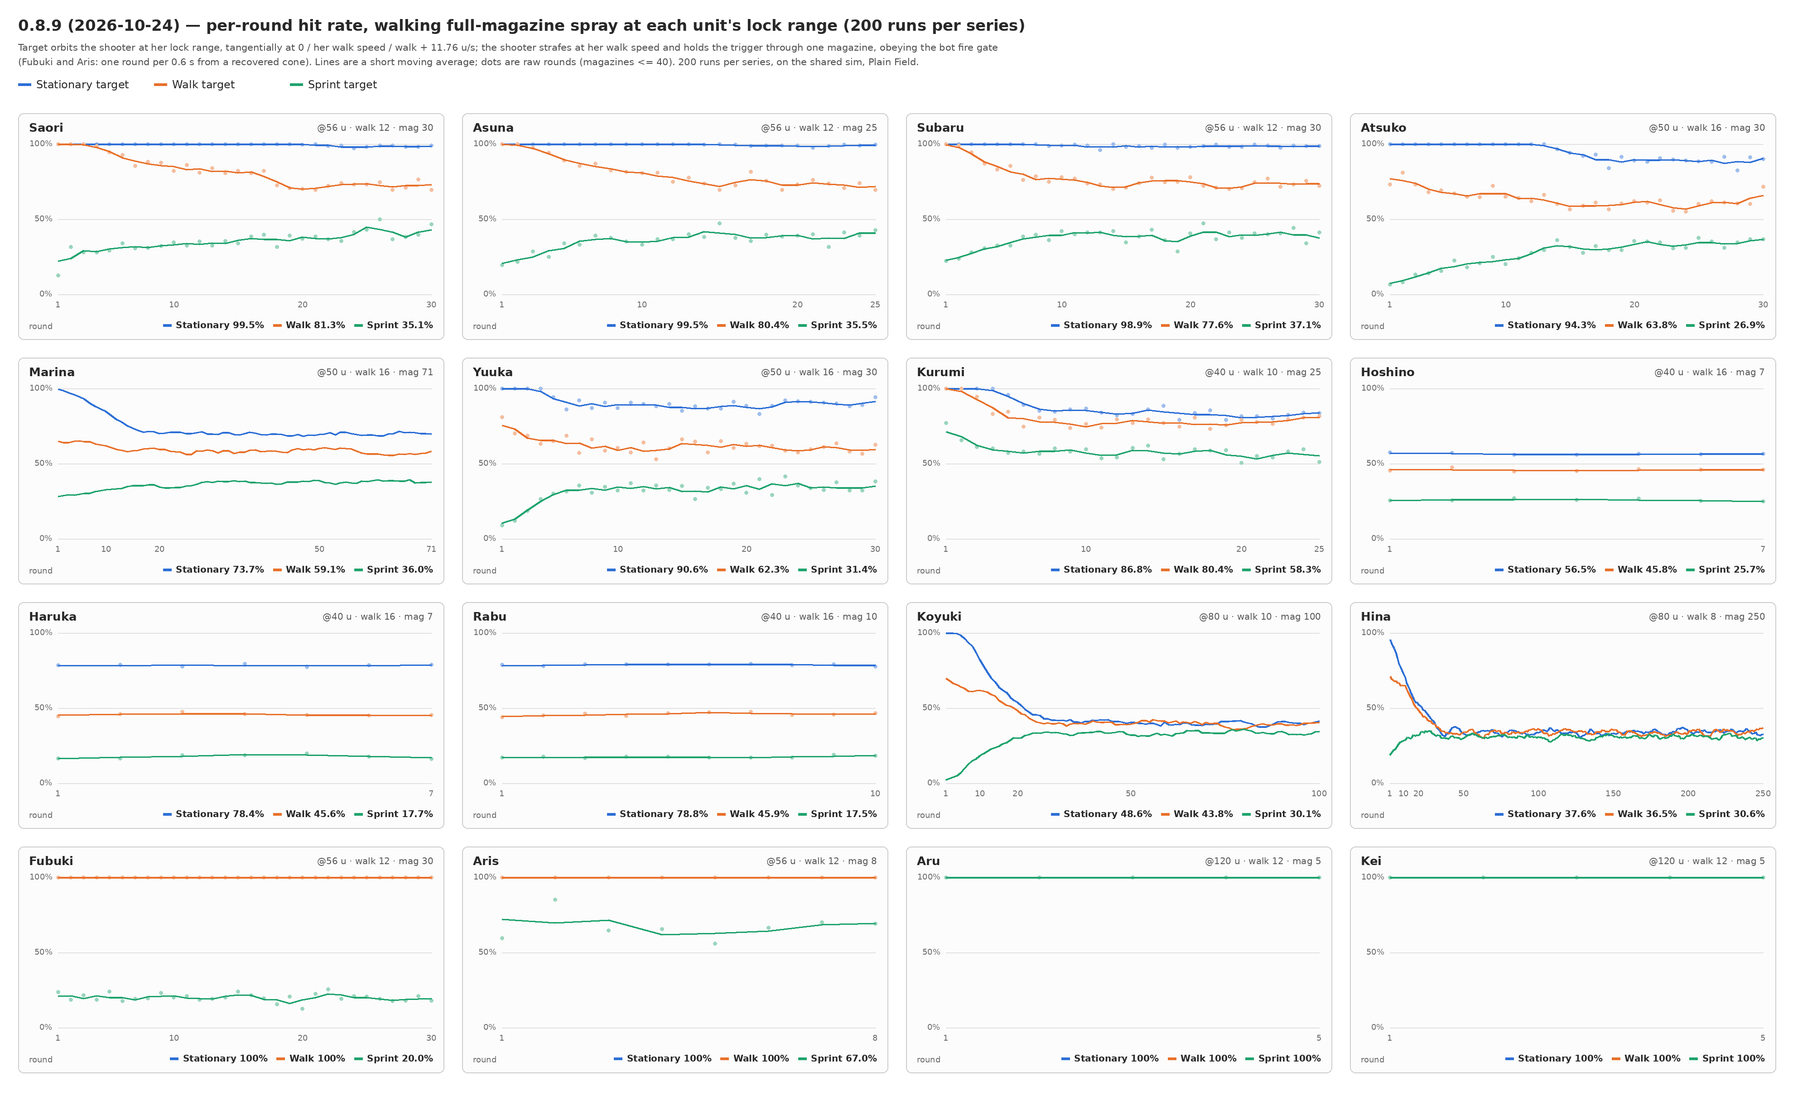
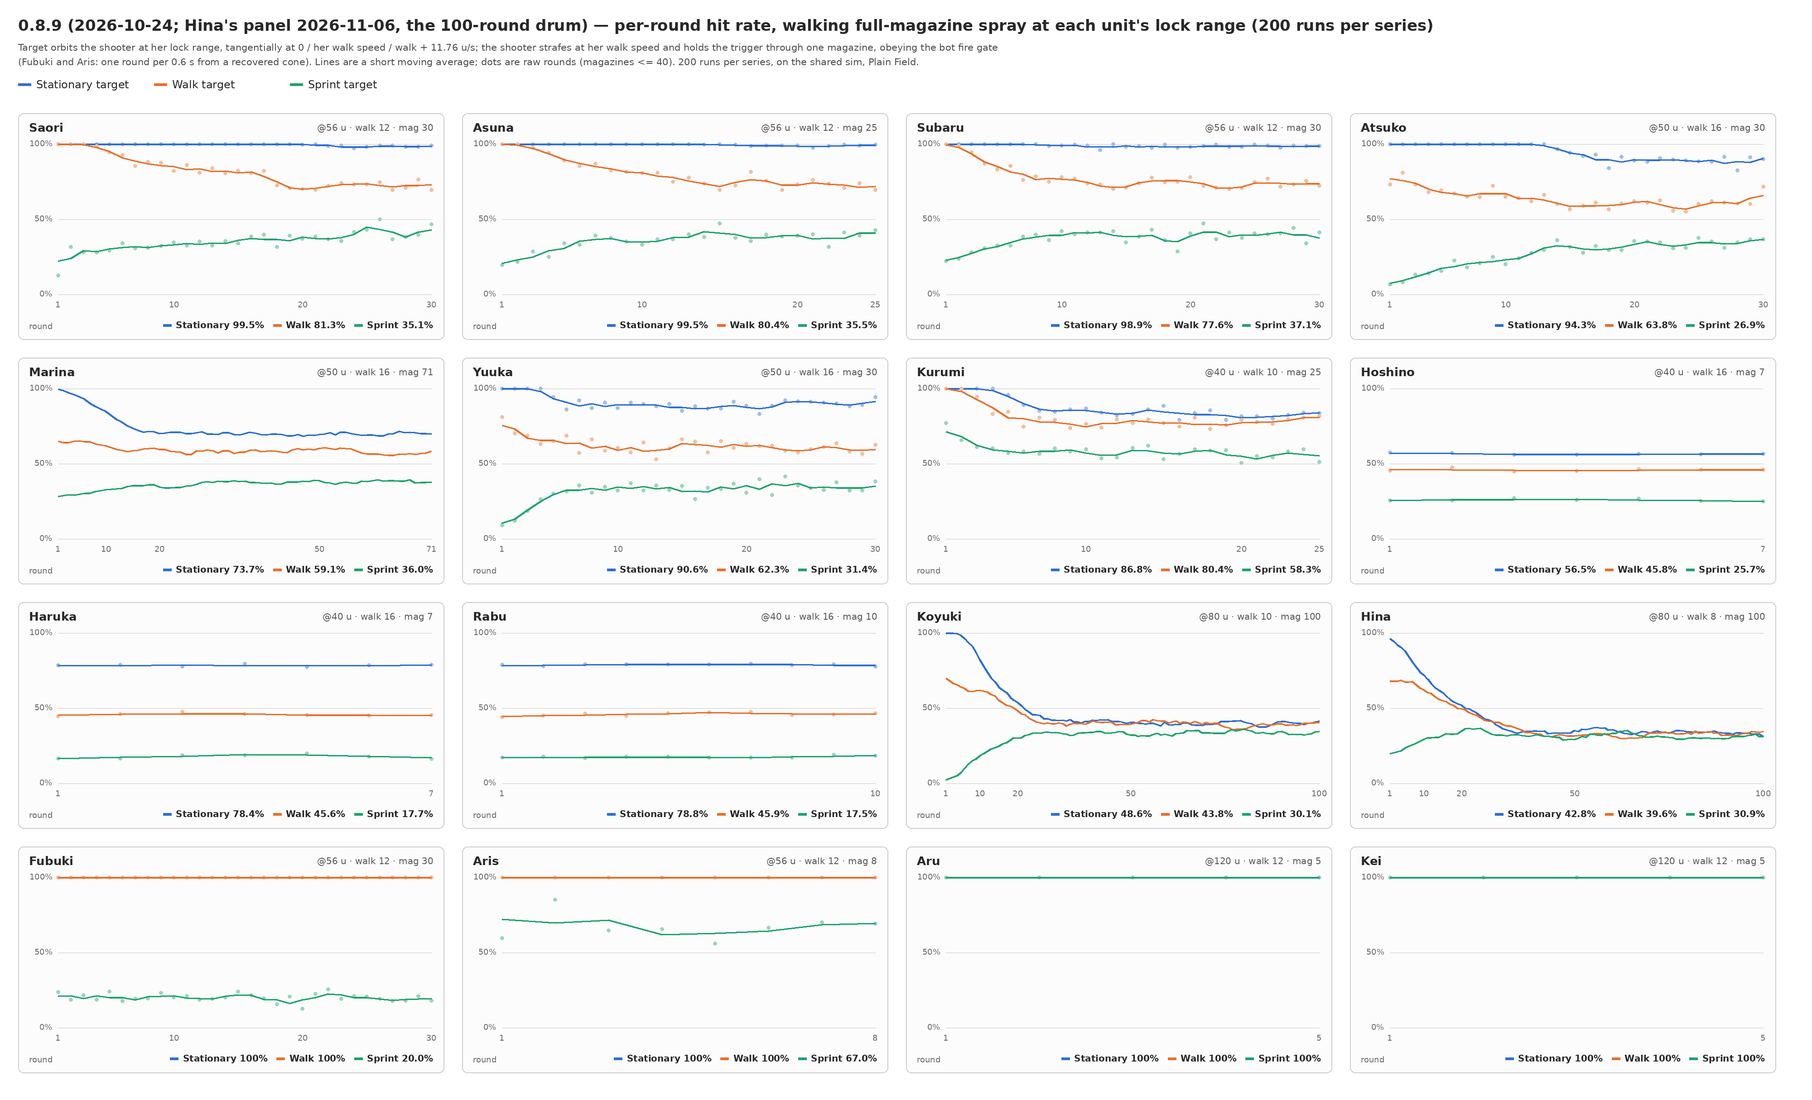
Hina: the MG42's magazine 100 (was 250), reload 5 s (was 7 s) (b1105bo)
User 2026-11-06: "change Hina magazine size from 250 to 100, reload time
from 7sec to 5sec. PT and 9.5."

- shared/src/sim/constants.js and the client's own copy in
  client/src/main.js: unit5 magCapacity 250 -> 100, reloadMs 7000 -> 5000.
  botFireCap follows the magazine to 100: 250 meant the whole drum per
  trigger pull, and an empty magazine already ends a bot's burst, so the
  bot still empties the drum in one pull.
- shared/src/sim/nbrain.js: the reload-hide comment's numbers.
- README: the unit table, the fire-cap table, the reload-hide line,
  Hina's measured hit-rate row, the reading under that table, and her
  panel in the hit-rate chart (re-measured with shared/tools/hitcurve.mjs;
  the other fifteen panels are the 2026-10-24 data as before), and the
  b1105bo entry.
- Build tag b1105bo 11-06.

Tests: node --test in shared, 185/185.

Claude-Session: https://claude.ai/code/session_01WRmaW8Rcy6Uy3N3ztRYSCo

Changed region(s): [[0.0938, 0.0, 0.7812, 0.0309], [0.7812, 0.6173, 0.9688, 0.679]]

diff --git a/client/src/main.js b/client/src/main.js
@@ -282,9 +282,9 @@ const UNIT_DATA = {
     bloomRecoverPerSec: 0.03,  // SA recovered per second
     bloomRecoverDelayMs: 200,  // recovery starts this long after the last shot (0 = between the shots of a burst too)
     damage: 4,
-    magCapacity: 250,
-    botFireCap: 250,         // bot: shots per trigger pull = full mag (fire cap, 2026-08-01)
-    reloadMs: 7000,
+    magCapacity: 100,          // user 2026-11-06: 100 rounds (250 until then)
+    botFireCap: 100,         // bot: shots per trigger pull = full mag (fire cap, 2026-08-01; 100 with the magazine, 2026-11-06)
+    reloadMs: 5000,            // user 2026-11-06: 5 s (7 s until then)
     autoReload: false,
     stun: { ms: 50, moveScale: 0.85 }   // light stun, same as the SMG
   },
@@ -7106,7 +7106,7 @@ const OWN_SHOT_SAME_SHOT_MS = 1000;       // older server without the shot count
 // Build tag, printed in the own-shot console tally so a stale deploy or
 // cache can be told from a live one (it was shown in the tab title for a
 // day; the owner had it taken off the tab, 2026-10-15).
-const CLIENT_BUILD_TAG = 'b1105bn 11-06';
+const CLIENT_BUILD_TAG = 'b1105bo 11-06';
 
 // Called after every prediction tick — the forward tick in runPredictionTick
 // and each replayed tick in applySnapshotToPrediction: every own single

diff --git a/shared/src/sim/constants.js b/shared/src/sim/constants.js
@@ -199,9 +199,9 @@ export const UNIT_DATA = {
     bloomRecoverPerSec: 0.03,  // SA recovered per second
     bloomRecoverDelayMs: 200,  // recovery starts this long after the last shot (0 = between the shots of a burst too)
     damage: 4,
-    magCapacity: 250,
-    botFireCap: 250,         // bot: shots per trigger pull = full mag (fire cap, 2026-08-01)
-    reloadMs: 7000,
+    magCapacity: 100,          // user 2026-11-06: 100 rounds (250 until then)
+    botFireCap: 100,         // bot: shots per trigger pull = full mag (fire cap, 2026-08-01; 100 with the magazine, 2026-11-06)
+    reloadMs: 5000,            // user 2026-11-06: 5 s (7 s until then)
     autoReload: false,
     stun: { ms: 50, moveScale: 0.85 }   // light stun, same as the SMG
   },

diff --git a/shared/src/sim/nbrain.js b/shared/src/sim/nbrain.js
@@ -125,7 +125,7 @@ const BOT_STUCK_MEMORY_WEIGHT = 0.7;  // below the ~0.85 pursuit pull, so it nud
 // search in navgrid.js shares the bot's eye rule.)
 // RELOAD HIDE (the 2026-08-08 cover reload, re-based on the Hide stance by
 // the owner 2026-09-26): units with a MANUAL reload at least MIN_MS long
-// (Hina's 7 s drum, Koyuki's 5 s) spend the famine in the Hide stance —
+// (Hina's and Koyuki's 5 s; Hina's was 7 s until 2026-11-06) spend the famine in the Hide stance —
 // entered the tick the reload starts, left the tick it completes — with
 // every Hide rule (hidden from every enemy, pace, slip, no Defense, fire
 // back only from where it stands). Auto and per-shell reloaders are

diff --git a/README.md b/README.md
@@ -149,6 +149,8 @@ Both offline and online pickers carry them:
 
 **The unit picker's folder: PROFILE, the weapon print over the tab** (b1105bn, 2026-11-06; user: "change the "UNIT FILE" text in unit selection menu to "PROFILE"" and "the weapon box is slightly covered a little on the left side by the file. Move the weapon box on top of the file so it won't be covered. the paper clip part should be untouched visually") — the folder's tab and the profile popup's tab read PROFILE. The weapon print's left edge sat under the tab: the tab is the folder's `::before` at z-index 2, and the card that holds the print turns (rotate 0.8°), so it is a layer of its own at the folder's base level and the print's own z-index could not lift it past the tab; the card now stands at z-index 3 (`.menu .picker-folder .picker-card`), the print and the clip it holds with it. Headless at 1280×720 and 600×310: the pixels that changed are the tab's word and the strip where tab and print meet; the clip's are identical.
 
+**Hina's MG42: a 100-round drum, a 5 s reload** (b1105bo, 2026-11-06; user: "change Hina magazine size from 250 to 100, reload time from 7sec to 5sec. PT and 9.5.") — unit5's `magCapacity` 250 → 100 and `reloadMs` 7000 → 5000, in both copies of her numbers: the shared sim's (`shared/src/sim/constants.js`) and the client's own (`client/src/main.js` UNIT_DATA, which the picker card reads). Her `botFireCap` goes to 100 with the magazine: 250 meant "the whole drum per trigger pull", and an empty magazine already ends a bot's burst (the empty-mag branch of the bot's firing clears the count), so one pull still empties the drum — now ~4.8 s of fire at her 48 ms cadence where it was ~12 s. She still spends the reload in the Hide stance (5 s is over `BOT_RELOAD_HIDE_MIN_MS`, 3 s), and the reload animation, fitted to `reloadMs`, now plays over 5 s. Fire rate, damage, spread, bloom, HP and movement are as they were. The unit table, the fire-cap table and the reload-hide line carry the new numbers; Hina's hit-rate row is re-measured with `shared/tools/hitcurve.mjs` at 100 rounds (200 runs a series, as before; the other fifteen rows stay the 2026-10-24 measurement) and her panel in the chart is redrawn from it. The bot-vs-bot duels of the same day (Hina against each of the other sixteen on the seven maps, 10 a pairing a map: 1,120 duels a setting, the same seeds) put her 1v1 win rate at 89.4% with the 250-round drum and the 7 s reload, 70.4% with 100 rounds on the 7 s reload, and 77.4% with 100 rounds on the 5 s reload (95% interval 74.9–79.8%).
+
 ## Sudden Death
 
 Picked as the **rules mode** beside the view mode (**Health Point** is the normal game; the two were named Normal / Classic until 2026-10-10). Everyone fights at **1 HP** — one landed round decides — and Trio respawns arrive at 1 HP too. The two snipers (Aru, Kei) are out of the pickers and the Random cards. The match opens on a full-width **SUDDEN DEATH** banner with the simulation frozen behind it; the 3 s spawn immunity and every bot slot's 650 ms first-shot delay count from the banner's end (the server holds the same way online).
@@ -245,7 +247,7 @@ Sixteen pickable units, near-identical base stats (100 HP — Kurumi 120; 250 bo
 | Unit 11 — Shotgun (Haruka) | 16 | 7 | 4 × 8 pellets | ~250 RPM | 350 | 40 / 50 | 1.2 s (auto, per round) |
 | Unit 18 — Shotgun (Rabu) | 16 | 10 | 4 × 8 pellets | ~250 RPM | 350 | 40 / 50 | 2 s (magazine) |
 | Unit 12 — Machine Gun (Koyuki) | 10 | 100 | 4.5 / shot | ~600 RPM | 600 | 80 / 65 | 5 s |
-| Unit 5 — Machine Gun (Hina) | 8 | 250 | 4 / shot | ~1250 RPM | 600 | 80 / 65 | 7 s |
+| Unit 5 — Machine Gun (Hina) | 8 | 100 | 4 / shot | ~1250 RPM | 600 | 80 / 65 | 5 s |
 | Unit 10 — Rifle (Fubuki) | 12 | 30 | 13 / shot | ~180 RPM | 600 | 56 / 65 | 2 s |
 | Unit 7 — Rifle (Aris) | 12 (flies) | 8 | 12 / bolt | ~180 RPM | 600 | 56 / 65 | 1.2 s (auto, per round) |
 | Unit 3 — Sniper Rifle (Aru) | 12 | 5 | 50 / 35 / 20 by range | 60 RPM | 4000 | 120 / 70 | 2.5 s + 1 s charge |
@@ -328,7 +330,7 @@ Unit 18 (user 2026-10-23): Rabu's M590 is Haruka's SDASS — the concentrated pa
 | Haruka @40 · 7 rds | 78% (79→79) | 46% (45→45) | 18% (16→17) |
 | Rabu @40 · 10 rds | 79% (79→78) | 46% (45→46) | 18% (17→18) |
 | Koyuki @80 · 100 rds | 49% (66→40) | 44% (52→39) | 30% (24→34) |
-| Hina @80 · 250 rds | 38% (45→34) | 36% (42→34) | 31% (30→31) |
+| Hina @80 · 100 rds | 43% (61→34) | 40% (54→33) | 31% (30→31) |
 | Fubuki @56 · 30 rds | 100% (100→100) | 100% (100→100) | 20% (20→20) |
 | Aris @56 · 8 rds | 100% (100→100) | 100% (100→100) | 67% (72→70) |
 | Aru @120 · 5 rds | 100% (100→100) | 100% (100→100) | 100% (100→100) |
@@ -336,7 +338,7 @@ Unit 18 (user 2026-10-23): Rabu's M590 is Haruka's SDASS — the concentrated pa
 
 *Shotgun rows:* Hoshino fires the 1.4× wide fan, Haruka the concentrated cloud (the two swapped patterns on 2026-10-10), and Rabu carries Haruka's pattern on her 10-shell magazine — her row is Haruka's, three shells longer. The picture is current (2026-10-24).
 
-*Reading it:* the first→last gap is the bloom. The 900 RPM rifles open a magazine at 100% on a walking target and close it in the low 70s; Atsuko slips 100→90 even on a standing target: her capped cone's sure-hit line is 40 u, inside her 50 u lock, and a 30-round spray gets there by round 20; Koyuki's 100-round belt and Hina's 250 reach their capped cone inside the first third and sit there (~40% and ~34%), which is why their bots fire ungated. A flat pair means the gun never leaves its resting cone: the shotguns (7 blasts, a fixed pattern), and Hina and Koyuki from round ~40 on. The marksman rifles are flat for the opposite reason: on their 100% gate they never fire bloomed, so every round is a 0.02-cone shot — 100% on anything walking, and against a sprinter only the flight-time drift is left: Fubuki 19%, Aris 62%, her laser bolt hitting with a 0.4 wider radius and its whole 64-long trailing body, which forgives more of the drift than Fubuki's point bullet. (Held down through the magazine instead, ignoring the gate, they spray at their caps — Fubuki 35 / 33 / 28%, Aris 71 / 74 / 56% — which is what the gate is for.) The walk column is no longer one target speed for everyone — the 16 u/s SMG targets are harder than the 12 u/s rifle targets — so compare it as "each unit against her own peer". Sprint is no longer untouchable: crossing the line of fire at 24–28 u/s still gets clipped a quarter to a third of the time, and the assault rifles' sprint curve *rises* through the magazine (28→39) as the widening cone starts to cover the flight-time lead. The snipers are the flat lines at the top: Aru's 4,000 u/s bolt crosses 120 u in 30 ms, so even a sprinter drifts under a unit before impact, and Kei's beam is instant. *The four units of 2026-10-22/23* (remeasured 2026-10-24): Subaru's curves lie on Saori's within three points (99 / 78 / 37 against 99 / 81 / 35) — her cone reaches the cap by the 9th round where the M4's takes 21, but a 0.06 cap's sure-hit line is 53 u, so at her 56 u lock the capped rounds still land 9 in 10, and her faster recovery never shows in a held-trigger spray; Yuuka reaches her 0.08 cap at the 6th round and holds 91 / 62 / 31 to Atsuko's 94 / 64 / 27 (the same chassis at 850 RPM: a little less to lose per round, a little more to lose over the magazine); Kurumi's 0.11 cap is the harshest of the SMGs but her 40 u lock is the shortest, and at that range the walking and sprinting targets drift the least before the round arrives — 87 / 80 / 58, the best moving-target numbers of any automatic, which is her range doing the work, not her cone; Rabu is Haruka's pattern three shells longer, flat as every shotgun.
+*Reading it:* the first→last gap is the bloom. The 900 RPM rifles open a magazine at 100% on a walking target and close it in the low 70s; Atsuko slips 100→90 even on a standing target: her capped cone's sure-hit line is 40 u, inside her 50 u lock, and a 30-round spray gets there by round 20; Koyuki's 100-round belt and Hina's 100-round drum reach their capped cone by the end of the first third (round 25 and round 34) and sit there (~40% and ~34%), which is why their bots fire ungated. A flat pair means the gun never leaves its resting cone: the shotguns (7 blasts, a fixed pattern), and Hina and Koyuki from round ~40 on. The marksman rifles are flat for the opposite reason: on their 100% gate they never fire bloomed, so every round is a 0.02-cone shot — 100% on anything walking, and against a sprinter only the flight-time drift is left: Fubuki 19%, Aris 62%, her laser bolt hitting with a 0.4 wider radius and its whole 64-long trailing body, which forgives more of the drift than Fubuki's point bullet. (Held down through the magazine instead, ignoring the gate, they spray at their caps — Fubuki 35 / 33 / 28%, Aris 71 / 74 / 56% — which is what the gate is for.) The walk column is no longer one target speed for everyone — the 16 u/s SMG targets are harder than the 12 u/s rifle targets — so compare it as "each unit against her own peer". Sprint is no longer untouchable: crossing the line of fire at 24–28 u/s still gets clipped a quarter to a third of the time, and the assault rifles' sprint curve *rises* through the magazine (28→39) as the widening cone starts to cover the flight-time lead. The snipers are the flat lines at the top: Aru's 4,000 u/s bolt crosses 120 u in 30 ms, so even a sprinter drifts under a unit before impact, and Kei's beam is instant. *The four units of 2026-10-22/23* (remeasured 2026-10-24): Subaru's curves lie on Saori's within three points (99 / 78 / 37 against 99 / 81 / 35) — her cone reaches the cap by the 9th round where the M4's takes 21, but a 0.06 cap's sure-hit line is 53 u, so at her 56 u lock the capped rounds still land 9 in 10, and her faster recovery never shows in a held-trigger spray; Yuuka reaches her 0.08 cap at the 6th round and holds 91 / 62 / 31 to Atsuko's 94 / 64 / 27 (the same chassis at 850 RPM: a little less to lose per round, a little more to lose over the magazine); Kurumi's 0.11 cap is the harshest of the SMGs but her 40 u lock is the shortest, and at that range the walking and sprinting targets drift the least before the round arrives — 87 / 80 / 58, the best moving-target numbers of any automatic, which is her range doing the work, not her cone; Rabu is Haruka's pattern three shells longer, flat as every shotgun.
 
 Projectiles fly straight (homing is zeroed universally). The targeting reticle is an **enemy-firing indicator**, not a range indicator: green by default, it flashes red while your current target is firing and stays red for the whole time a sniper is mid-charge with you as the target (see the sniper section). Being inside lock range is not signalled to players at all — the number only shapes bot behavior (bots hold their engage band around it). A faint in-lock tracer tint that once keyed to it was removed 2026-08-01.
 
@@ -403,7 +405,7 @@ Three properties the table encodes: glint duration equals the release time on **
 | Marina | 71 | full drum |
 | Fubuki | 30 | full mag |
 | Koyuki | 100 | full mag |
-| Hina | 250 | full drum (~12 s of continuous fire) |
+| Hina | 100 | full drum (~4.8 s of continuous fire) |
 | Hoshino / Haruka | 4 | 4 blasts per trigger pull |
 | Aris | 4 | legacy formula (half mag) |
 | Aru / Kei | — | charge cycle, no bursts |
@@ -449,7 +451,7 @@ One bot brain drives every bot — all maps, all modes, offline and online (one 
 | Fubuki, Aris | 100% | 100% |
 | Hoshino, Haruka, Aru, Kei | never gated | never gated |
 
-**Reload hide** (the 2026-08-08 cover reload, re-based on the Hide stance 2026-09-26) — weapons with a manual reload of 3 s or more (Hina's 7 s drum, Koyuki's 5 s) spend it in the **Hide** stance: the unit enters Hide the tick the reload starts and leaves it the tick the reload completes, with every Hide rule — out of every enemy's sight, pacing its cover, slipping away from a closing enemy, no Defense on a hit, firing back only from where it stands. Every bot does it (enemies too); on your own units in command mode the shield badge shows, entering **wipes a standing force lock**, and a new order during the reload releases the hide for the rest of that reload, exactly as it would any Hide (a Hide you set yourself is not released by the reload ending). **A unit under a move order keeps it**: its reload runs as a *Cover Hide* bound to the order instead (2026-09-26 — cover inside the order's area first, for the whole reload, no badge), and the unit resumes its post when the reload completes; a new move order landing mid-reload takes over at once. Per-shell and auto reloaders (Hoshino, Haruka, Aris) are excluded by design — they're always mid-reload, so they'd never come out. The counterplay is to push: hiding beats a stationary opponent, not a committed one.
+**Reload hide** (the 2026-08-08 cover reload, re-based on the Hide stance 2026-09-26) — weapons with a manual reload of 3 s or more (Hina's and Koyuki's 5 s) spend it in the **Hide** stance: the unit enters Hide the tick the reload starts and leaves it the tick the reload completes, with every Hide rule — out of every enemy's sight, pacing its cover, slipping away from a closing enemy, no Defense on a hit, firing back only from where it stands. Every bot does it (enemies too); on your own units in command mode the shield badge shows, entering **wipes a standing force lock**, and a new order during the reload releases the hide for the rest of that reload, exactly as it would any Hide (a Hide you set yourself is not released by the reload ending). **A unit under a move order keeps it**: its reload runs as a *Cover Hide* bound to the order instead (2026-09-26 — cover inside the order's area first, for the whole reload, no badge), and the unit resumes its post when the reload completes; a new move order landing mid-reload takes over at once. Per-shell and auto reloaders (Hoshino, Haruka, Aris) are excluded by design — they're always mid-reload, so they'd never come out. The counterplay is to push: hiding beats a stationary opponent, not a committed one.
 
 **Station's hops, and Factory's belts** (b1024z10–z11, user 2026-10-24) — Station: a bot that had left a platform — walked off its edge while orbiting, or jumped down to close on the enemy — hopped straight back onto it, the platform being the strong ground the low-ground rule reached for, and landed at whatever range that gave. Gone on the user's call (`nbrain.js`): the **low-ground hop** — "on low ground, take any reachable platform, no 'toward player' gate; on Station the decks are the strong positions" — in Pursue, Engage and Defense alike; and with it two things tried the same day and dropped the same day: a fourth question for a hop ("did I not just come down from there?", a 4 s refusal of a hop back to the floor just left) and a gate on the pursuit's deliberate drop (only when the enemy stands lower) — the question read heights, not places, so it also kept a body backing off from hopping onto the other platform, and a hop that keeps the range must stay. What remains climbs for a reason: the pursuit's climb toward an enemy a jump higher, the Maze's hop onto a ledge in its way, a route's vault at its link, Defense's sprint vault and its vault out of a wedge. Measured over six bot-minutes of 1v1: a body left a platform once or twice a minute (six or seven before) and never came straight back up the same side (five or six times before); it spends 9–29 % of a match on a platform, where it was 30–80 % — the platforms are climbed by routes and the pursuit only. And the wedge detectors read the sim's own note of a wall (b1024z12, user 2026-10-24: "the bot got stuck on the railway under fire"): Defense and Engage judged "I am pressed against a wall" from the steering's boxes alone, and the steering leaves jumpable fences out on purpose — Station's 1 m platform fronts among them — so a body pressed against a front stood still, its vault out of a wedge asleep, once the low-ground hop that used to lift it was gone (measured: 1.6–3.3 s a minute still under fire on the tracks, 71–90 % of a match down there). Now moving into the face physics pushed the body out of last tick (`host.wall`, `pushedInto` in `nbrain.js`) counts as wedged too, whatever the thing; Pursue's wedge was always read from movement and needed nothing. Measured after: 0.0–0.3 s a minute still under fire, 7–25 % of a match on the tracks, the platforms climbed again through the vault out of the wedge — so the quick return up the side a body fled from is back, two to five a minute, now as the escape's way out rather than an idle hop. Every jump a bot takes is tagged with its rule (`botHopWhy`: pursue-climb, pursue-descent, pursue-low, maze-perch, maze-route, low-ground, defense-ahead, defense-vault, cover-move) for the headless harness to read. Factory: no bot ever crossed a belt, by two faults of the nav grid (`navgrid.js`). A walk edge's fit at the crossing's midpoint was read at the floor the walk stands on there — past the step up onto the belt top (2.6 units, a step's height) — so the 2.9-unit lips before the step were never met, the belt read as walked onto, and the sim's lips then stopped the body; and a jump link between two walk components needed a rise of at least `JUMP_RISE_MIN`, which the belt's 2.6 falls short of. Now every walk edge is also swept at the lower floor's body height (`walkSegmentBlocked`), and an island link needs no least rise (the components are apart, so no walk joins them; a shortcut within one component keeps it). Factory gains 48 links, ground to belt top, and the bots vault its belts in the headless matches (about one crossing per bot-minute); elsewhere one walkable node changes (Town) and four routes grow by 2 m where a low thing really blocks the walk. The two equivalence tests' references are re-frozen at b1024z12 (`shared/tools/freeze_refs.py`).
 
